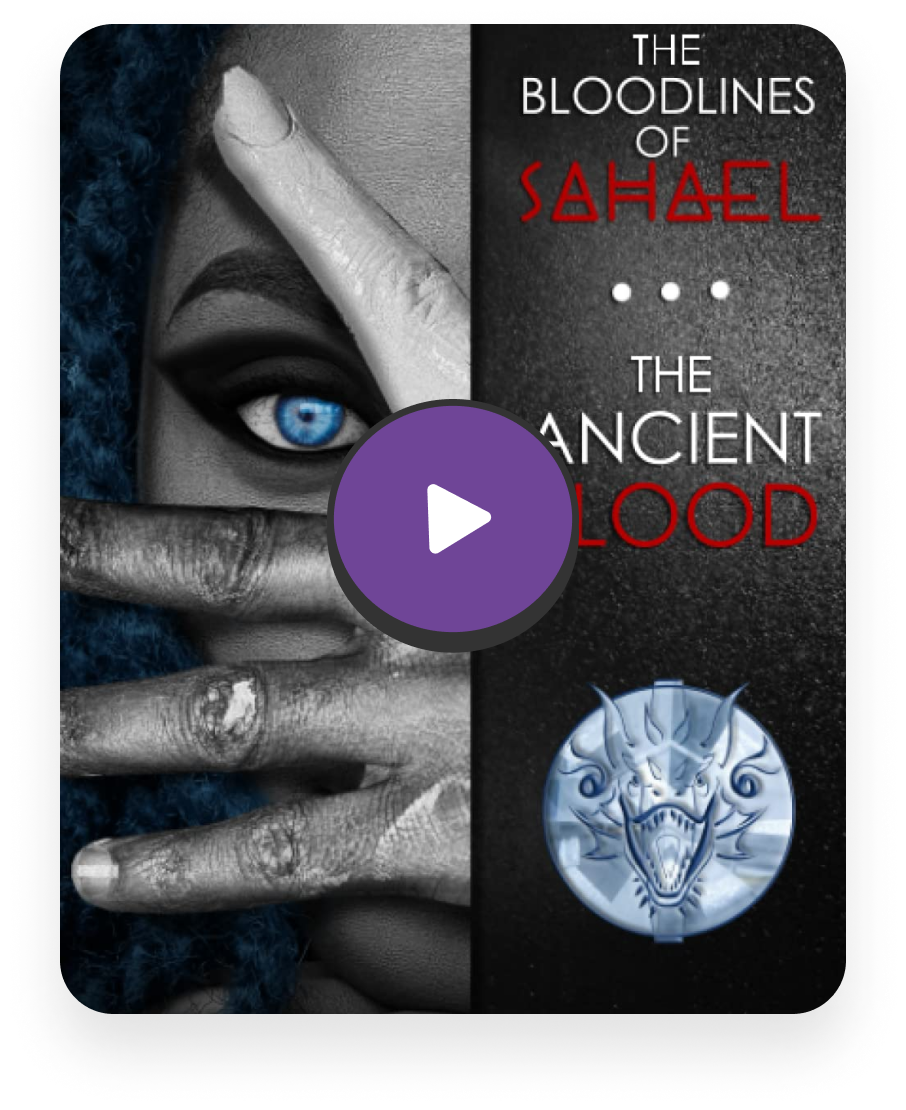
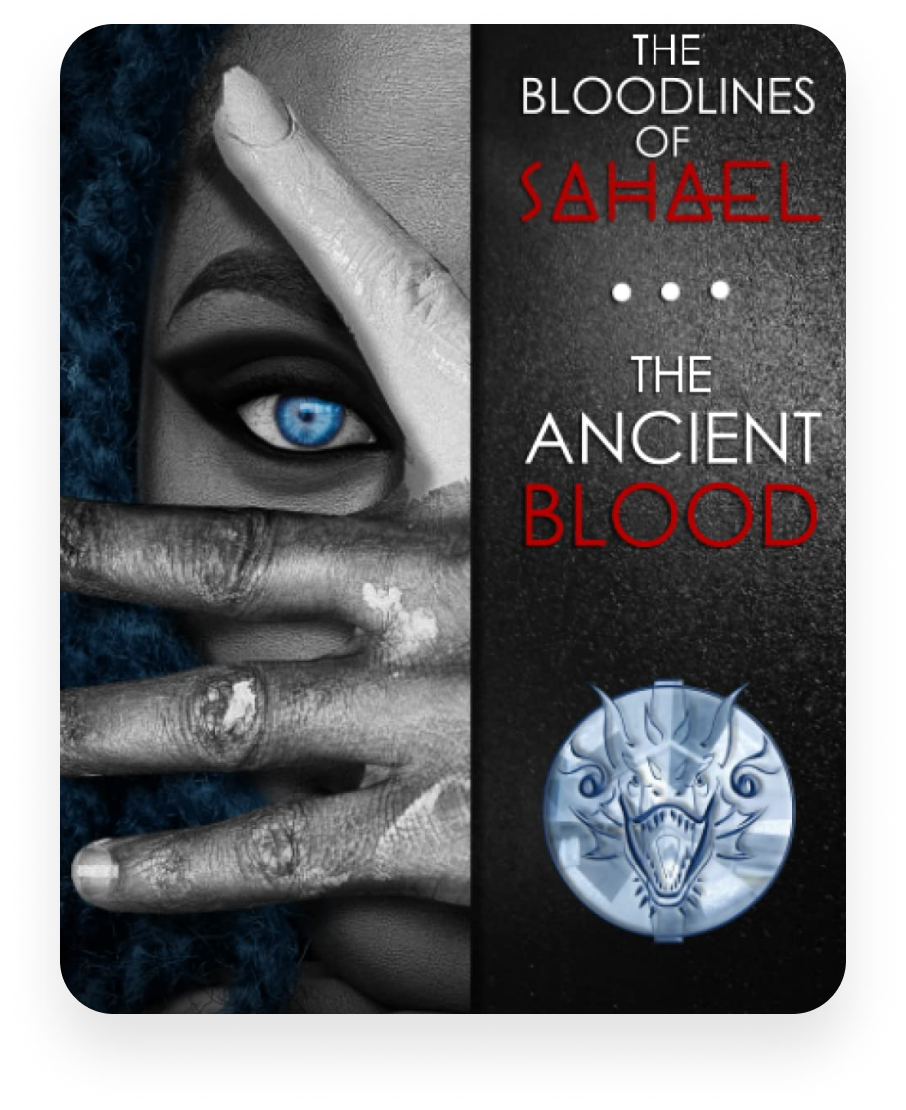
Added pagination

Changed region(s): [[0.34, 0.3369, 0.649, 0.6126]]

diff --git a/src/components/FooterSection.tsx b/src/components/FooterSection.tsx
@@ -1,5 +1,8 @@
+"use client"
+
 import Image from "next/image";
 import Link from "next/link";
+import { useCallback, useEffect, useState } from "react";
 
 interface TestimonialProps {
   quote: string;
@@ -26,42 +29,102 @@ const testimonials: TestimonialProps[] = [
     author: "Guy Hawkins",
     rating: 4.6,
     authorImage: ""
+  },
+  {
+    quote: "The African literature collection is unmatched. I've discovered so many amazing authors through this platform.",
+    author: "Sarah Ndlovu",
+    rating: 4.9,
+    authorImage: ""
+  },
+  {
+    quote: "Being able to listen to stories in my native language while doing other tasks has been a game-changer.",
+    author: "Dr. Amina Diallo",
+    rating: 4.7,
+    authorImage: ""
+  },
+  {
+    quote: "The cultural authenticity in the narrations really brings these stories to life. It's like being transported back home.",
+    author: "Michael Okonjo",
+    rating: 4.8,
+    authorImage: ""
   }
 ];
 
+function useCarousel(items: TestimonialProps[], autoPlayInterval = 5000) {
+  const [currentGroup, setCurrentGroup] = useState(0);
+  const [isAutoPlaying, setIsAutoPlaying] = useState(true);
+  const [isMobile, setIsMobile] = useState(false);
+  
+  useEffect(() => {
+    const checkMobile = () => {
+      setIsMobile(window.innerWidth < 768); // md breakpoint
+    };
+    
+    checkMobile();
+    window.addEventListener('resize', checkMobile);
+    return () => window.removeEventListener('resize', checkMobile);
+  }, []);
+
+  const itemsPerGroup = isMobile ? 1 : 3;
+  const totalGroups = Math.ceil(items.length / itemsPerGroup);
+
+  const next = useCallback(() => {
+    setCurrentGroup((current) => (current + 1) % totalGroups);
+  }, [totalGroups]);
+
+  const previous = useCallback(() => {
+    setCurrentGroup((current) => (current - 1 + totalGroups) % totalGroups);
+  }, [totalGroups]);
+
+  useEffect(() => {
+    if (!isAutoPlaying) return;
+    
+    const interval = setInterval(next, autoPlayInterval);
+    return () => clearInterval(interval);
+  }, [isAutoPlaying, next, autoPlayInterval]);
+
+  return {
+    currentGroup,
+    next,
+    previous,
+    setIsAutoPlaying,
+    totalGroups
+  };
+}
+
 function TestimonialCard({ quote, author, rating, authorImage }: TestimonialProps) {
   return (
-    <div className="bg-white rounded-lg p-6 border-2 border-[#403455] shadow-[0_4px_0_0_rgba(51,51,51,1)]">
-      <div className="flex justify-between items-start mb-6">
+    <div className="bg-white rounded-lg p-4 border-2 border-[#403455] shadow-[0_4px_0_0_rgba(51,51,51,1)]">
+      <div className="flex justify-between items-start mb-4">
         <Image
           src="/quote.png"
           alt="quote"
-          width={24}
-          height={24}
+          width={20}
+          height={20}
           className="text-gray-800/80"
         />
         <div className="flex items-center gap-1">
           <Image 
             src="/star.png" 
             alt="star" 
-            width={24} 
-            height={24} 
+            width={20} 
+            height={20} 
             className="text-[#FFBC57]"
           />
-          <span className="text-gray-800">{rating}</span>
+          <span className="text-sm text-gray-800">{rating}</span>
         </div>
       </div>
       
-      <p className="text-gray-800/80 mb-8 min-h-[128px]">{quote}</p>
+      <p className="text-gray-800/80 text-sm mb-6 min-h-[96px]">{quote}</p>
       
-      <div className="flex items-center gap-4">
-        <div className="w-12 h-12 rounded-full overflow-hidden">
+      <div className="flex items-center gap-3">
+        <div className="w-10 h-10 rounded-full overflow-hidden">
           {authorImage ? (
             <Image 
               src={authorImage} 
               alt={author} 
-              width={48} 
-              height={48}
+              width={40} 
+              height={40}
               className="object-cover"
             />
           ) : (
@@ -77,13 +140,15 @@ function TestimonialCard({ quote, author, rating, authorImage }: TestimonialProp
             />
           )}
         </div>
-        <span className="text-gray-800">{author}</span>
+        <span className="text-sm text-gray-800">{author}</span>
       </div>
     </div>
   );
 }
 
 export function FooterSection() {
+  const { currentGroup, next, previous, setIsAutoPlaying, totalGroups } = useCarousel(testimonials);
+
   return (
     <>
       <section className="bg-[#FFF9F2] w-full pt-16">
@@ -93,7 +158,14 @@ export function FooterSection() {
               What The Tribe is Saying...
             </h2>
             <div className="flex gap-4">
-              <button className="w-12 h-[46px] rounded-lg border-2 border-gray-800 flex items-center justify-center bg-white shadow-[0_4px_0_0_rgba(51,51,51,1)]">
+              <button 
+                onClick={() => {
+                  previous();
+                  setIsAutoPlaying(false);
+                }}
+                className="w-12 h-[46px] rounded-lg border-2 border-gray-800 flex items-center justify-center bg-white shadow-[0_4px_0_0_rgba(51,51,51,1)] hover:bg-gray-50 transition-colors"
+                aria-label="Previous testimonial"
+              >
                 <Image 
                   src="/icons/arrow-left.svg" 
                   alt="Previous" 
@@ -101,7 +173,14 @@ export function FooterSection() {
                   height={24} 
                 />
               </button>
-              <button className="w-12 h-[46px] rounded-lg border-2 border-gray-800 flex items-center justify-center bg-[#6F4597] shadow-[0_4px_0_0_rgba(51,51,51,1)]">
+              <button 
+                onClick={() => {
+                  next();
+                  setIsAutoPlaying(false);
+                }}
+                className="w-12 h-[46px] rounded-lg border-2 border-gray-800 flex items-center justify-center bg-[#6F4597] shadow-[0_4px_0_0_rgba(51,51,51,1)] hover:bg-[#5d3b7e] transition-colors"
+                aria-label="Next testimonial"
+              >
                 <Image 
                   src="/icons/arrow-right.svg" 
                   alt="Next" 
@@ -113,10 +192,49 @@ export function FooterSection() {
             </div>
           </div>
           
-          <div className="grid grid-cols-1 md:grid-cols-3 gap-4 lg:gap-8 mb-16">
-            {testimonials.map((testimonial, index) => (
-              <TestimonialCard key={index} {...testimonial} />
-            ))}
+          <div className="relative overflow-hidden mb-16">
+            <div 
+              className="flex transition-transform duration-500 ease-in-out"
+              style={{ 
+                transform: `translateX(-${currentGroup * 100}%)`,
+              }}
+            >
+              {Array.from({ length: totalGroups }).map((_, groupIndex) => (
+                <div 
+                  key={groupIndex}
+                  className="flex gap-4 lg:gap-8 min-w-full"
+                >
+                  {testimonials
+                    .slice(
+                      groupIndex * (window.innerWidth < 768 ? 1 : 3),
+                      groupIndex * (window.innerWidth < 768 ? 1 : 3) + (window.innerWidth < 768 ? 1 : 3)
+                    )
+                    .map((testimonial, index) => (
+                      <div 
+                        key={index}
+                        className="md:flex-1 w-full"
+                      >
+                        <TestimonialCard {...testimonial} />
+                      </div>
+                    ))}
+                </div>
+              ))}
+            </div>
+            <div className="flex justify-center gap-2 mt-6">
+              {Array.from({ length: totalGroups }).map((_, index) => (
+                <button
+                  key={index}
+                  onClick={() => {
+                    setCurrentGroup(index);
+                    setIsAutoPlaying(false);
+                  }}
+                  className={`w-2 h-2 rounded-full transition-colors ${
+                    currentGroup === index ? 'bg-[#6F4597]' : 'bg-gray-300'
+                  }`}
+                  aria-label={`Go to testimonial group ${index + 1}`}
+                />
+              ))}
+            </div>
           </div>
         </div>
       </section>

diff --git a/src/components/BarsSection.tsx b/src/components/BarsSection.tsx
@@ -8,22 +8,22 @@ export function BarsSection() {
       <div className="grid grid-cols-1 lg:grid-cols-2 gap-7 lg:gap-10 max-w-6xl mx-auto">
         {/* Left Content */}
         <div className="space-y-6 md:space-y-7">
-          <h2 className="text-3xl sm:text-[2.8rem] md:text-4xl lg:text-5xl font-bold text-[#333333] drop-shadow-[0_0_50px_rgba(255,255,255,0.3)]">
+          <h2 className="text-2xl sm:text-3xl md:text-3xl lg:text-3xl font-bold text-[#333333] drop-shadow-[0_0_50px_rgba(255,255,255,0.3)]">
             Drop a Bar
           </h2>
-          <p className="text-sm sm:text-base md:text-lg text-[#333333]/80 max-w-lg">
+          <p className="text-sm md:text-base text-[#333333]/80 max-w-lg">
             With our &apos;Bars&apos; feature, you can clip the realest lines from your favorite audiobooks and share them with your people. Show your everyone what&apos;s speaking to your soul.
           </p>
 
           <div className="space-y-6 md:space-y-7">
             {/* Feature 1 */}
             <div className="flex gap-4 md:gap-6">
-              <div className="w-2.5 h-2.5 md:w-3 md:h-3 rounded-full bg-[#6F4597] mt-2" />
-              <div className="space-y-2">
-                <h3 className="text-xl md:text-2xl font-semibold text-[#6F4597]">
+              <div className="w-2 h-2 rounded-full bg-[#6F4597] mt-1.5" />
+              <div className="space-y-1.5">
+                <h3 className="text-lg md:text-xl font-semibold text-[#6F4597]">
                   Catch the Vibes
                 </h3>
-                <p className="text-sm sm:text-base text-[#333333]/80">
+                <p className="text-sm text-[#333333]/80">
                   Clip 15-30 seconds of the dopest moments and share them straight from the app.
                 </p>
               </div>
@@ -31,12 +31,12 @@ export function BarsSection() {
 
             {/* Feature 2 */}
             <div className="flex gap-4 md:gap-6">
-              <div className="w-2.5 h-2.5 md:w-3 md:h-3 rounded-full bg-[#6F4597] mt-2" />
-              <div className="space-y-2">
-                <h3 className="text-xl md:text-2xl font-semibold text-[#6F4597]">
+              <div className="w-2 h-2 rounded-full bg-[#6F4597] mt-1.5" />
+              <div className="space-y-1.5">
+                <h3 className="text-lg md:text-xl font-semibold text-[#6F4597]">
                   Start the conversation
                 </h3>
-                <p className="text-sm sm:text-base text-[#333333]/80">
+                <p className="text-sm text-[#333333]/80">
                   Add your own thoughts or let the story speak for itself to connect with your audience on a deeper level.
                 </p>
               </div>
@@ -44,12 +44,12 @@ export function BarsSection() {
 
             {/* Feature 3 */}
             <div className="flex gap-4 md:gap-6">
-              <div className="w-2.5 h-2.5 md:w-3 md:h-3 rounded-full bg-[#6F4597] mt-2" />
-              <div className="space-y-2">
-                <h3 className="text-xl md:text-2xl font-semibold text-[#6F4597]">
+              <div className="w-2 h-2 rounded-full bg-[#6F4597] mt-1.5" />
+              <div className="space-y-1.5">
+                <h3 className="text-lg md:text-xl font-semibold text-[#6F4597]">
                   Set the Trend
                 </h3>
-                <p className="text-sm sm:text-base text-[#333333]/80">
+                <p className="text-sm text-[#333333]/80">
                   Post to Instagram, Twitter, or TikTok and watch your people connect over the bars that move you.
                 </p>
               </div>
@@ -65,12 +65,12 @@ export function BarsSection() {
 
         {/* Right Content - Phone UI */}
         <div className="relative mt-7 lg:mt-0">
-          <div className="relative w-full max-w-[370px] aspect-[529/620] lg:ml-auto">
+          <div className="relative block w-full max-w-[370px] aspect-[529/620] lg:ml-auto">
             <Image
               src="/bars.png"
               alt="Bars UI Preview"
               fill
-              className="object-contain"
+              className="w-full object-cover"
               sizes="(max-width: 768px) 100vw, (max-width: 1200px) 50vw, 370px"
             />
           </div>

diff --git a/src/components/DiscordSection.tsx b/src/components/DiscordSection.tsx
@@ -9,20 +9,9 @@ export function DiscordSection() {
         {/* Content */}
         <div className="flex flex-col justify-center space-y-5 md:space-y-7 order-1 lg:order-none">
           <h2 className="text-3xl sm:text-4xl md:text-4xl font-bold text-[#333333] drop-shadow-[0_0_50px_rgba(255,255,255,0.3)]">
-            Where The Conversation Starts
+            Join the Tribe
           </h2>
           
-          {/* Image shown on mobile only */}
-          <div className="lg:hidden relative">
-            <Image
-              src="/discord.png"
-              alt="Discord Community Preview"
-              width={720}
-              height={480}
-              className="w-full h-auto"
-            />
-          </div>
-
           <p className="text-[#333333]/80 text-sm sm:text-base md:text-lg">
             Pull up to the Abantu Discord—a place where we chop it up about books, culture, and everything in between. Join the tribe and be part of the movement.
           </p>
@@ -60,9 +49,14 @@ export function DiscordSection() {
             </PrimaryButton>
           </div>
         </div>
-
-        {/* Image shown only on desktop */}
-        <div className="hidden lg:block relative">
+        <div className="lg-hidden flex flex-1 flex-col b-4 items-center justify-center">
+          <Image
+            src="/abantu-discord.png"
+            alt="Abantu Discord Logo"
+            width={300}
+            height={55}
+            className="mb-8"
+          />
           <Image
             src="/discord.png"
             alt="Discord Community Preview"

diff --git a/src/components/StoriesSection.tsx b/src/components/StoriesSection.tsx
@@ -24,12 +24,12 @@ function BookCard({ title, author, rating, coverUrl }: BookCardProps) {
           />
         </div>
         
-        {/* Play Button - smaller on mobile */}
+        {/* Play Button - smaller on mobile
         <div className="absolute top-1/3 left-1/3">
           <div className="w-[56px] h-[52px] md:w-[76px] md:h-[72px] bg-[#6F459F] rounded-full border-2 border-[#333333] shadow-[0_4px_0_0_rgba(51,51,51,1)] flex items-center justify-center">
             <div className="w-0 h-0 border-t-[10px] md:border-t-[13px] border-t-transparent border-l-[18px] md:border-l-[22px] border-l-white border-b-[10px] md:border-b-[13px] border-b-transparent ml-2" />
           </div>
-        </div>
+        </div> */}
       </div>
 
       {/* Book Info - smaller text on mobile */}

diff --git a/src/components/Header.tsx b/src/components/Header.tsx
@@ -52,7 +52,7 @@ export function Header() {
         {/* Desktop Navigation Container */}
         <div className="hidden md:flex flex-1 items-center justify-end gap-8">
           {/* Navigation Links */}
-          <div className="flex items-center gap-8 lg:gap-16 text-[#403554]">
+          <div className="flex flex-1 justify-center items-center gap-8 lg:gap-16 text-[#403554]">
             <Link href="/">Home</Link>
             <Link href="/publishers">For Publishers</Link>
             <Link href="/narrators">For Narrators</Link>
